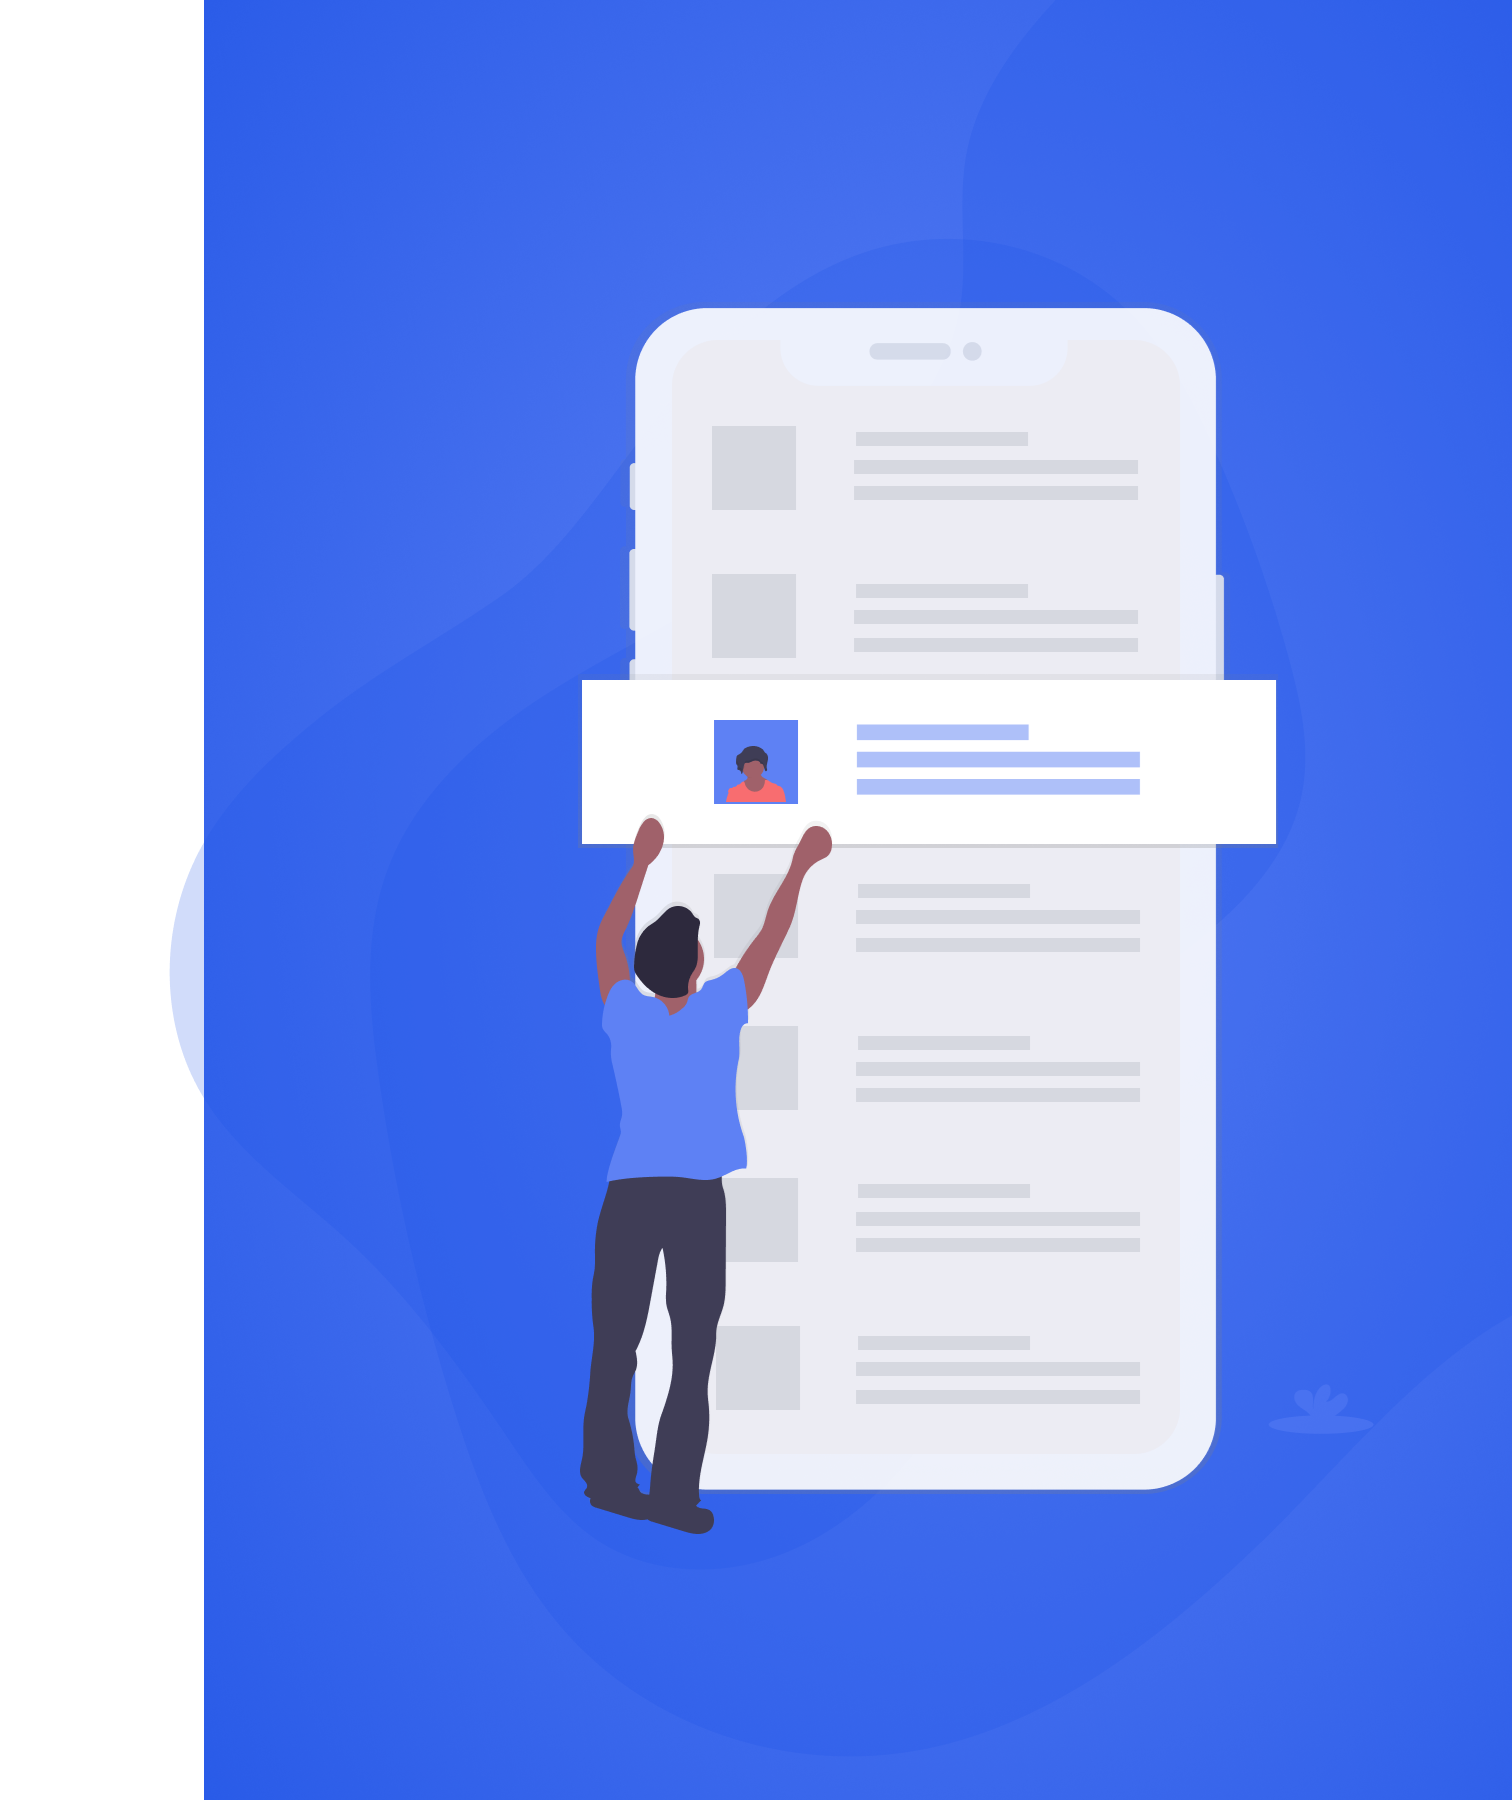
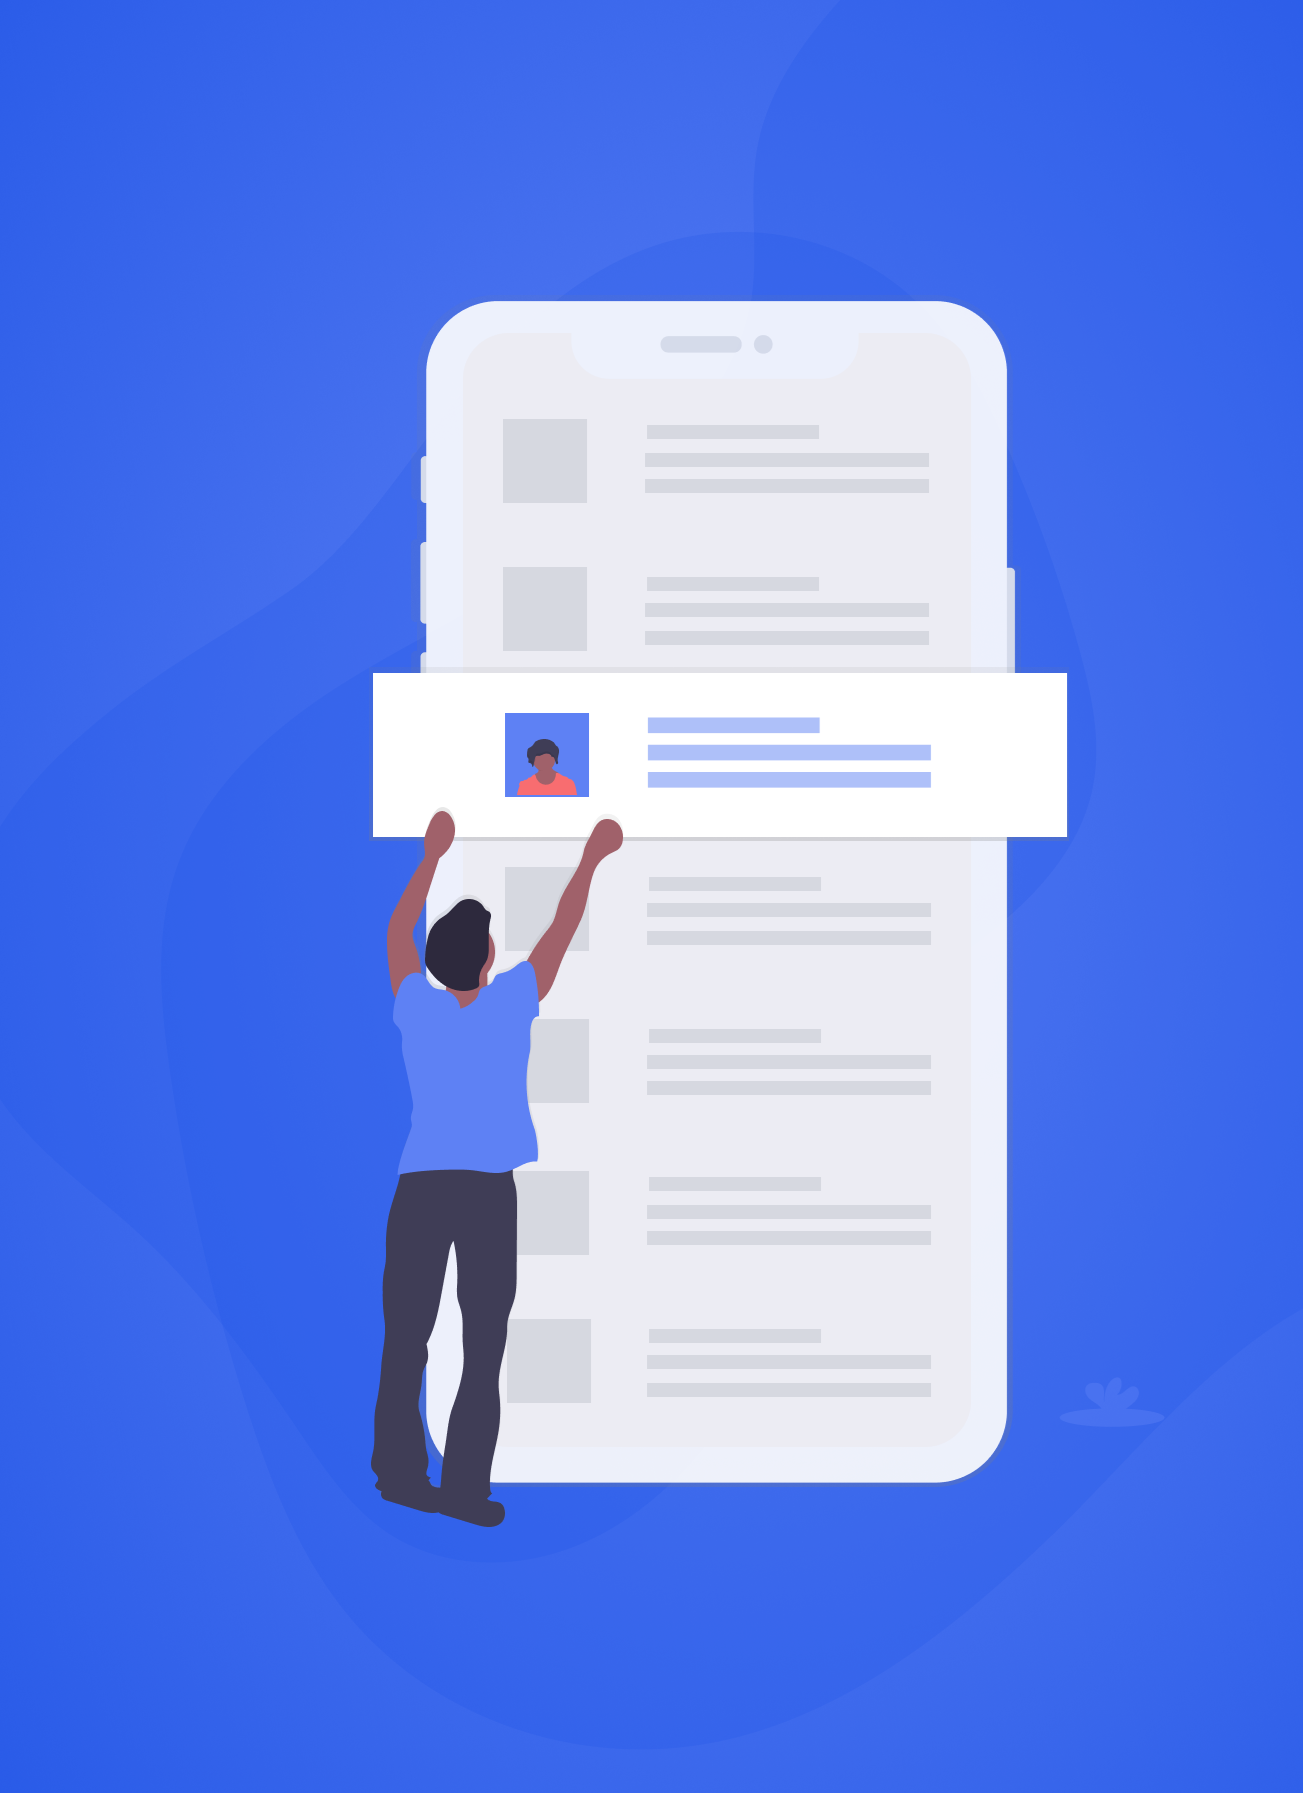
feat: update auth illustrations with new figma exports

Changed region(s): [[0.2763, 0.1562, 0.7675, 0.8745], [0.0, 0.0, 0.1535, 1.0], [0.7368, 0.1562, 0.8596, 0.8433]]

diff --git a/src/app/auth/auth-layout/auth-layout.scss b/src/app/auth/auth-layout/auth-layout.scss
@@ -65,9 +65,8 @@
   width: 100%;
   height: 100%;
   object-fit: cover;
-  object-position: 82% center;
+  object-position: center;
   display: block;
-  transform: scale(1.02);
 }
 
 @media (max-width: 1024px) {
